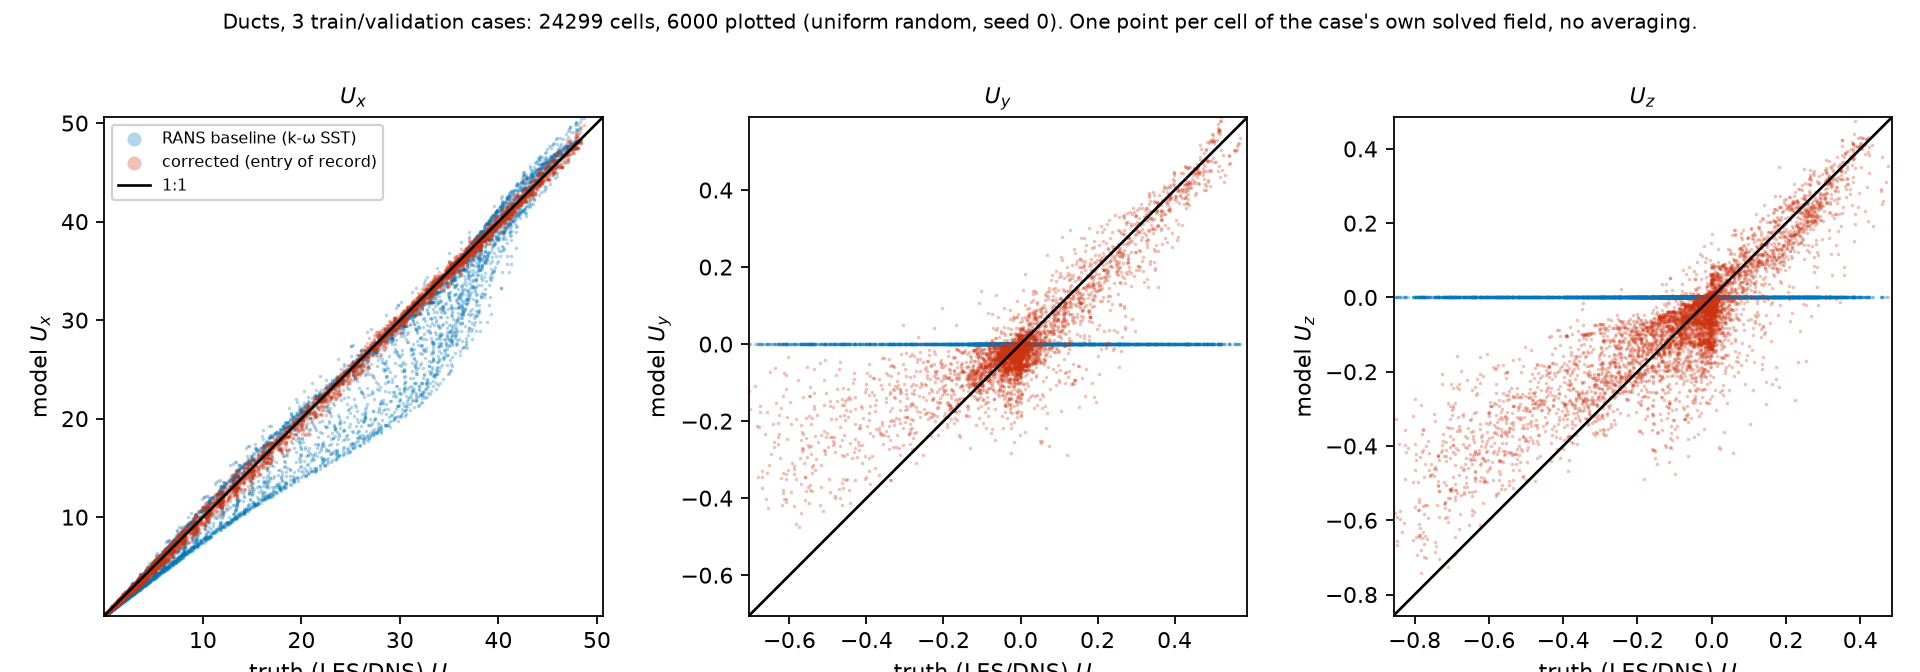
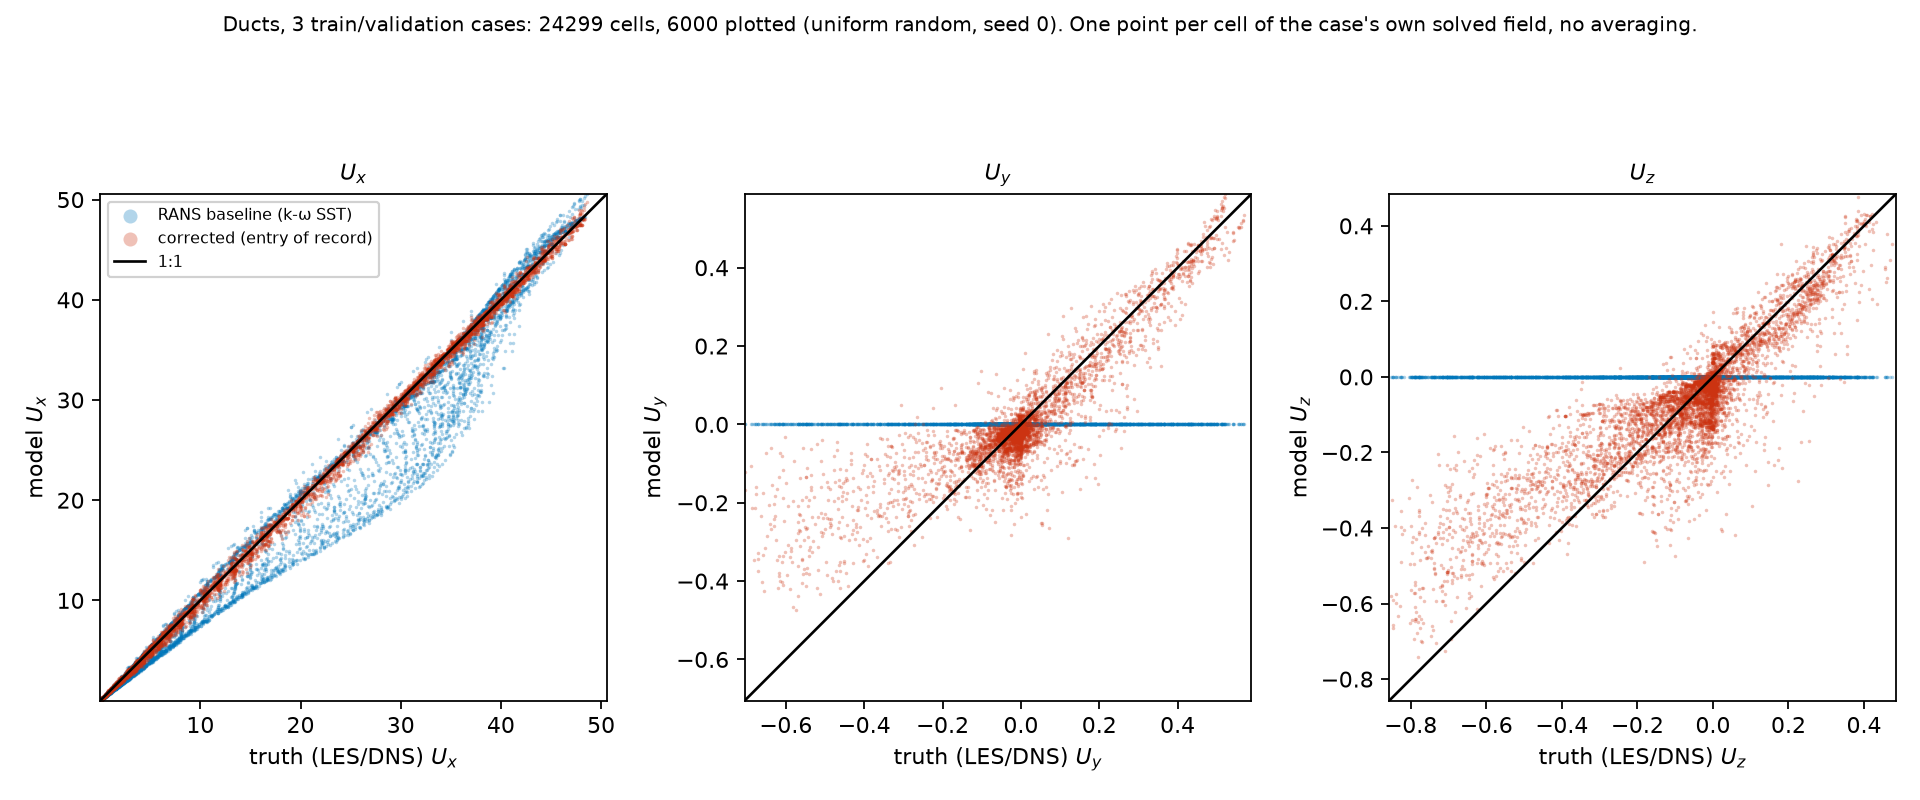
The duct scatter draws the linear model's blind spot as a flat line, and the hill maps show the correction moving error to the wall
Figure-legibility pass plus two findings the redraw made visible.

The duct 1:1 panels: every RANS point in Uy and Uz sits on the horizontal
line at exactly zero, whatever the truth is. That is the linear eddy-viscosity
closure's structural blindness to secondary flow drawn as a single straight
line, and it is the clearest single image in the battery.

The hill error maps: on alpha_05_10071_4048 -- the validation case where the
correction is worse than doing nothing -- the two panels say how. RANS carries
a diffuse mid-channel error band; the corrected field concentrates roughly
double that error into a strip along the lower wall. The correction relocated
its error into the near-wall region, which is exactly where the metric's
equal-weight-per-point averaging cares least and a user would care most. The
scalar reports this as -0.0013 and nothing else.

diff --git a/sdk/scripts/closure_eval_battery/run_ph_battery.py b/sdk/scripts/closure_eval_battery/run_ph_battery.py
@@ -105,7 +105,7 @@ def figure_profiles(case, geom, C, U_rans, U_corr, U_true, Ub, outpath):
 def figure_scatter(pool, outpath, population_note):
     """M2: 1:1 scatter, one panel per quantity, black 1:1 line."""
     quantities = [("$U_x$", 0), ("$U_y$", 1), (r"$\|U\|$", None)]
-    fig, axes = plt.subplots(1, 3, figsize=(12.0, 4.2))
+    fig, axes = plt.subplots(1, 3, figsize=(12.0, 5.0))
     rng = np.random.default_rng(0)
     for ax, (label, comp) in zip(axes, quantities):
         def q(field):
@@ -129,7 +129,7 @@ def figure_scatter(pool, outpath, population_note):
         ax.set_title(f"{label}", fontsize=10)
     axes[0].legend(fontsize=7, loc="upper left", markerscale=4, framealpha=0.9)
     fig.suptitle(population_note, fontsize=9)
-    fig.tight_layout(rect=(0, 0, 1, 0.94))
+    fig.tight_layout(rect=(0, 0.01, 1, 0.93))
     fig.savefig(outpath, dpi=160)
     plt.close(fig)
 

diff --git a/sdk/scripts/closure_eval_battery/run_duct_battery.py b/sdk/scripts/closure_eval_battery/run_duct_battery.py
@@ -177,7 +177,7 @@ def figure_streamwise_profiles(case, C, fields, Ub, h, outpath):
 
 def figure_scatter(pool, outpath, note):
     """D3: 1:1 scatter, one panel per velocity component."""
-    fig, axes = plt.subplots(1, 3, figsize=(12.0, 4.2))
+    fig, axes = plt.subplots(1, 3, figsize=(12.0, 5.0))
     rng = np.random.default_rng(0)
     for ax, (label, comp) in zip(axes, [("$U_x$", 0), ("$U_y$", 1), ("$U_z$", 2)]):
         t = pool["truth"][:, comp]
@@ -199,7 +199,7 @@ def figure_scatter(pool, outpath, note):
         ax.set_title(label, fontsize=10)
     axes[0].legend(fontsize=7, loc="upper left", markerscale=4, framealpha=0.9)
     fig.suptitle(note, fontsize=9)
-    fig.tight_layout(rect=(0, 0, 1, 0.93))
+    fig.tight_layout(rect=(0, 0.01, 1, 0.93))
     fig.savefig(outpath, dpi=160)
     plt.close(fig)
 

diff --git a/demo-output/website/CLOSURE_EVALUATION_PROTOCOL.md b/demo-output/website/CLOSURE_EVALUATION_PROTOCOL.md
@@ -406,6 +406,15 @@ was trained on.** This is the in-sample form of the covariate-shift finding
 the C1 decline gate was built for, and it is reported here because the
 battery surfaced it, not because it flatters the entry.
 
+The maps say *how* it gets worse, which the −0.0013 does not. On
+`alpha_05_10071_4048` the RANS error is a diffuse mid-channel band; the
+corrected field's error is **concentrated into a bright strip along the
+lower wall**, roughly doubled there. The correction has not spread its error
+around — it has relocated it into the near-wall region, which is where a
+downstream user would care most and where the challenge metric's
+equal-weight-per-point averaging cares least. `ph_error_maps_validation.png`,
+top row.
+
 ### 4.4 What was not done, and why
 
 - **No hump-class battery.** `NASA_2DWMH` is a test case, so its truth is
